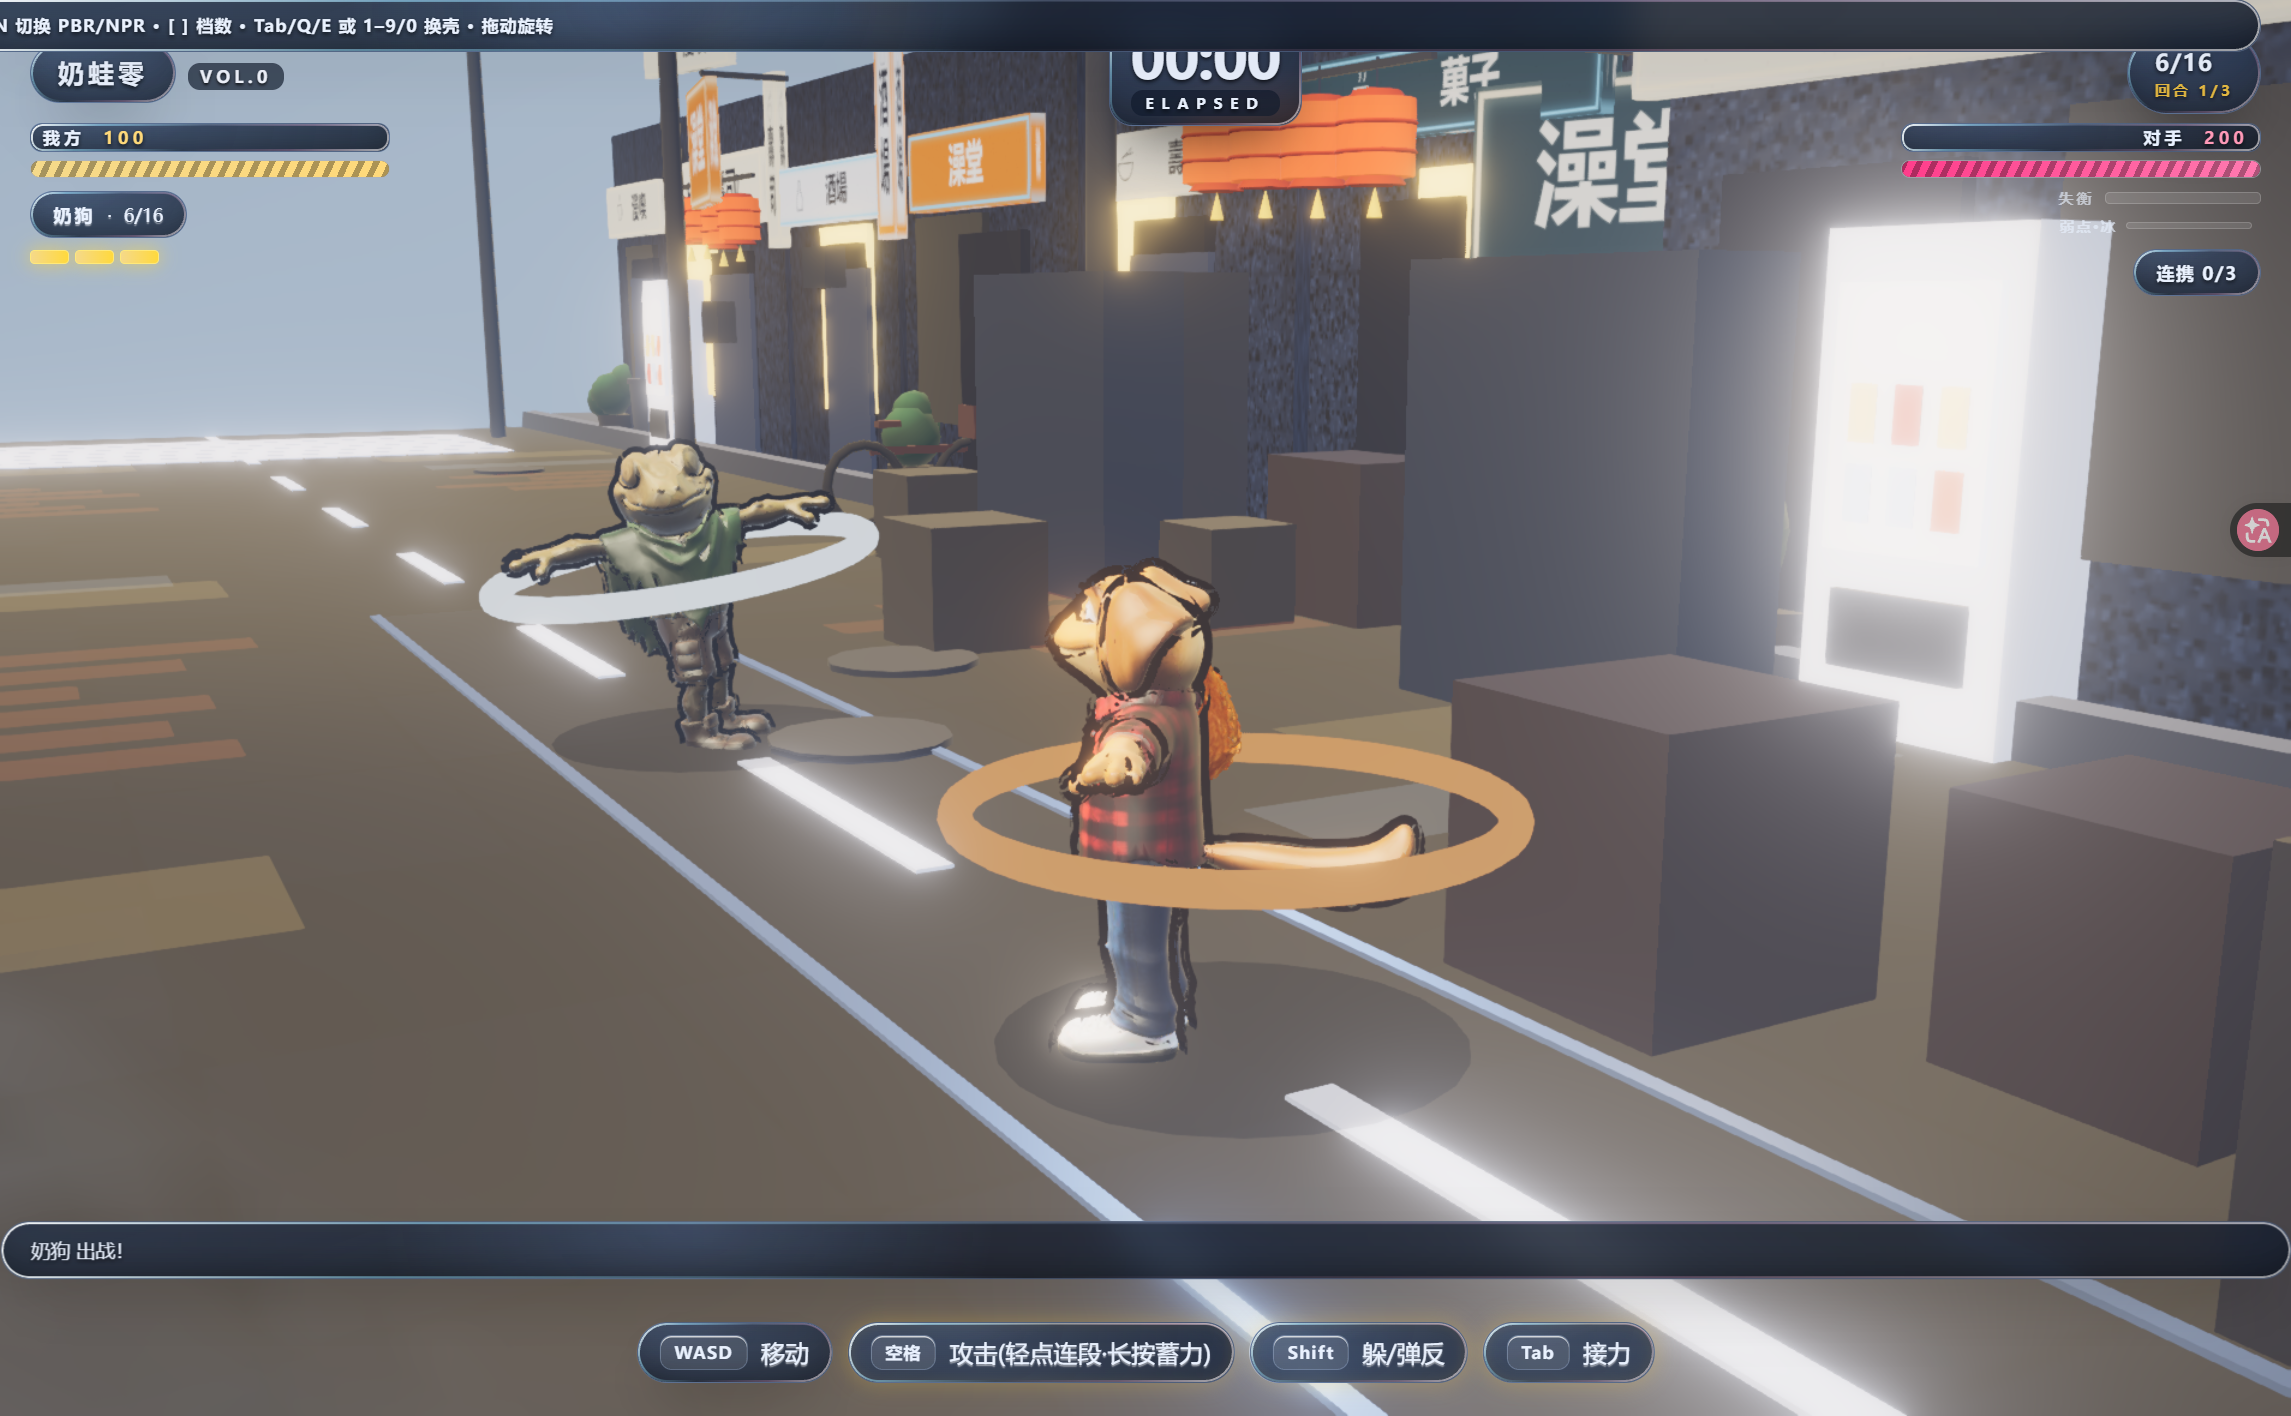
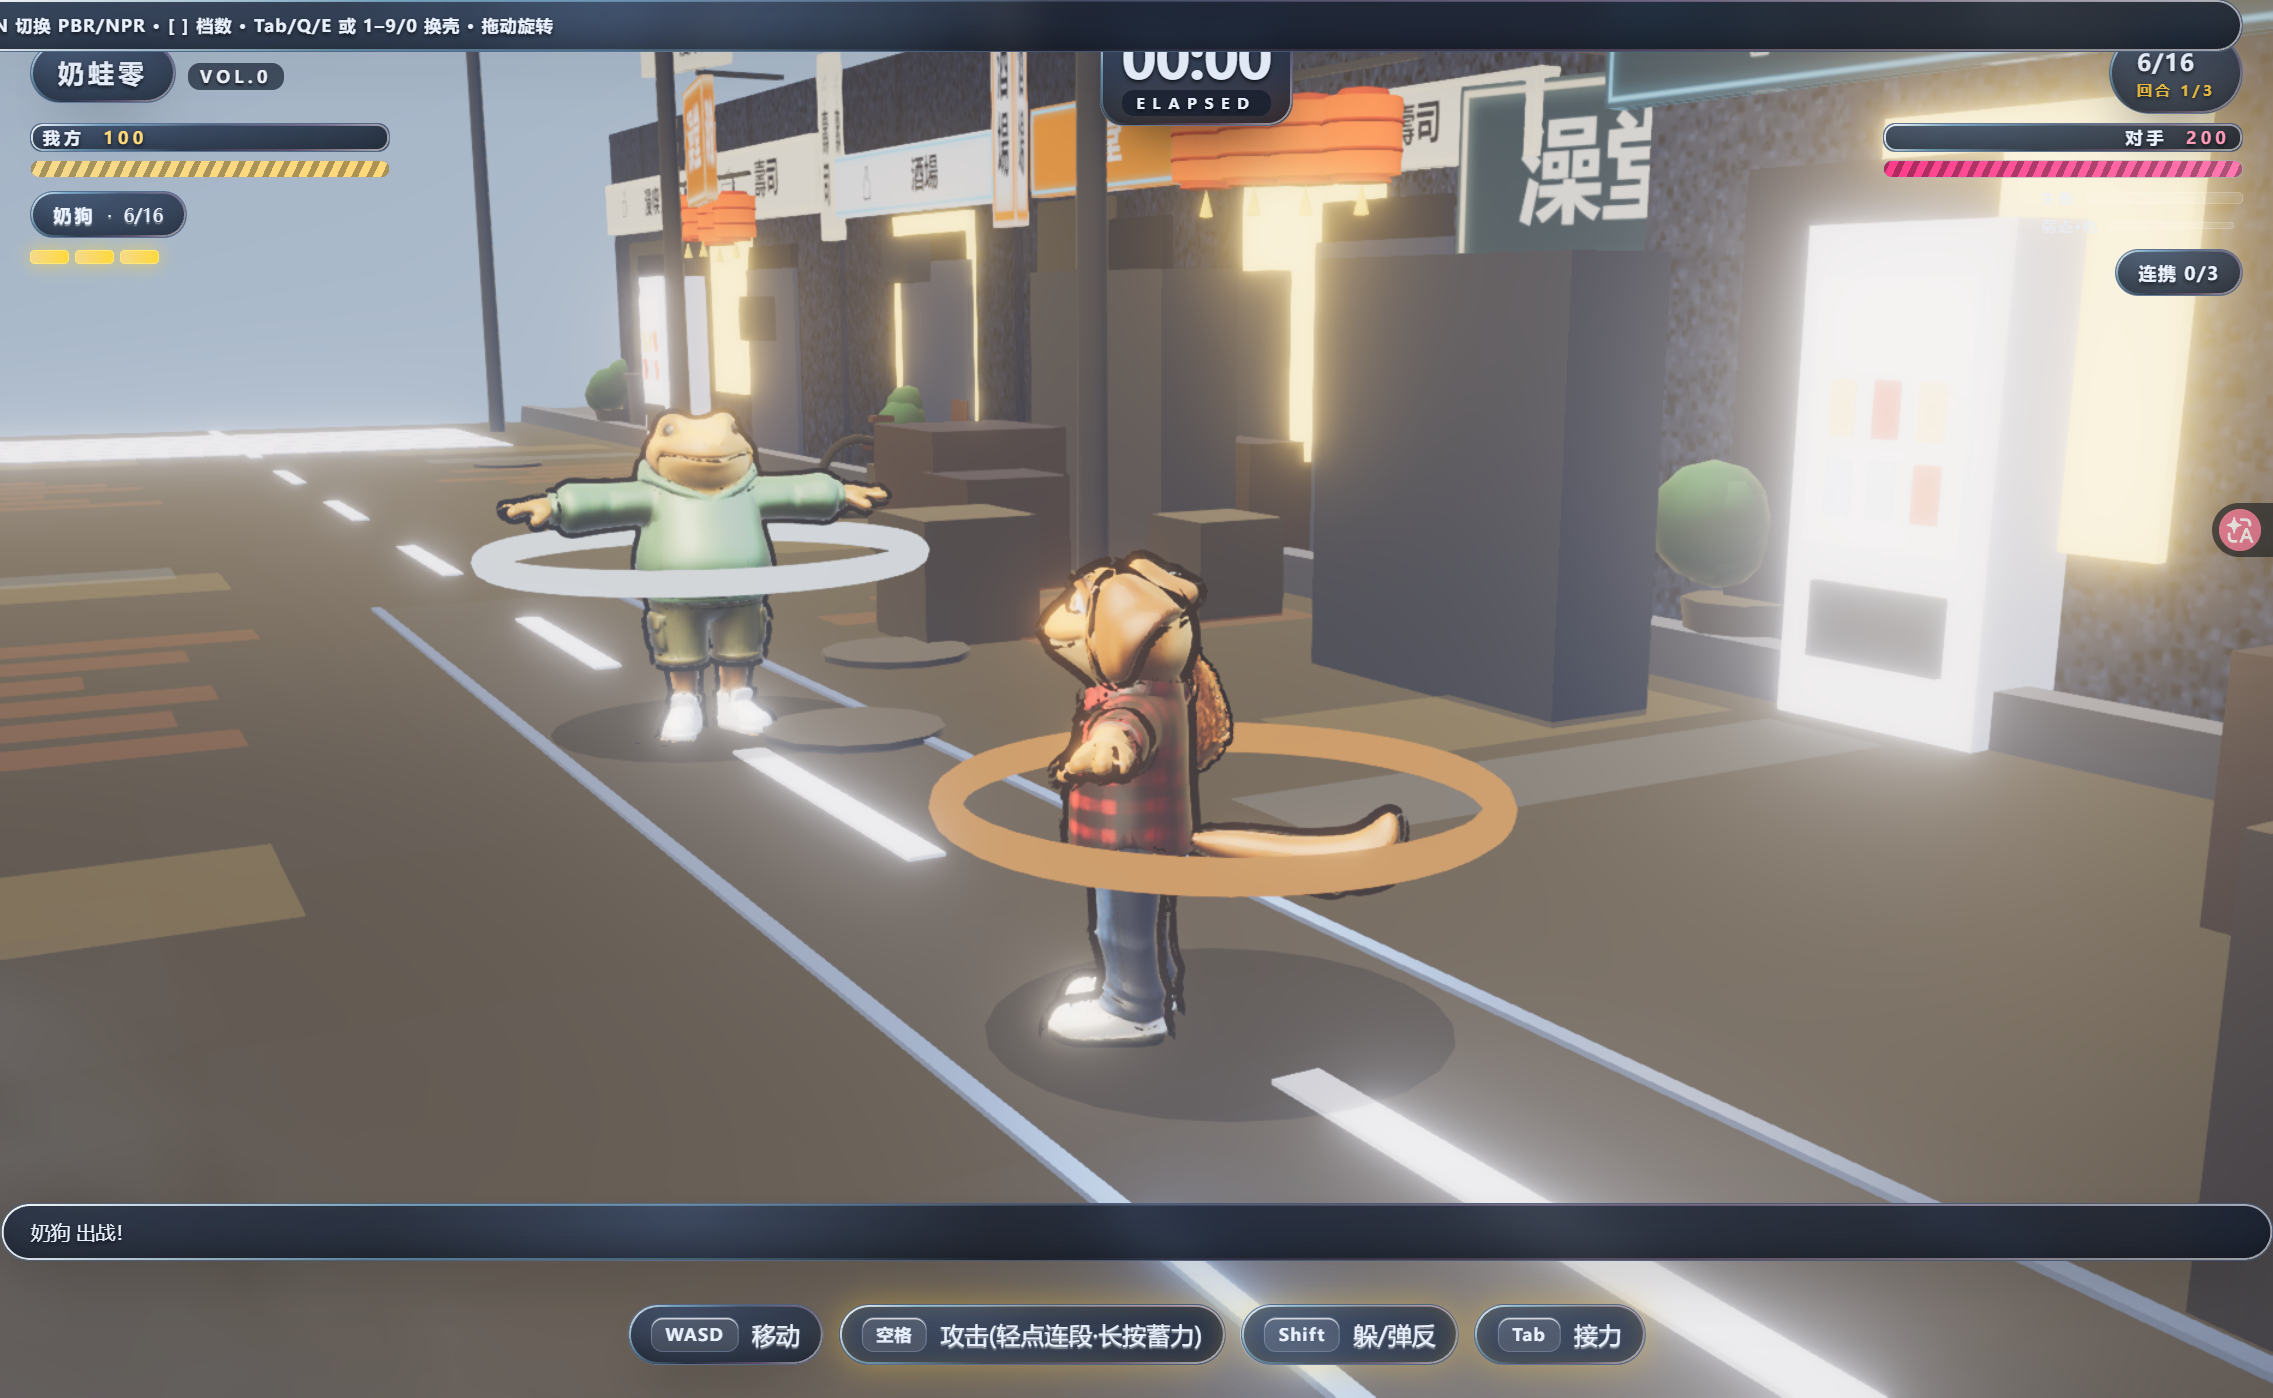
feat(fix): 武器异步加载后补 NPR 材质（与角色赛璐璐统一）+ 并入展示线手感/演出/声音三块补做
- src/main.mjs：武器是异步加载的（晚于角色的 applyNpr），此前保留原始
  MeshPhysicalMaterial —— 与角色的赛璐璐材质不一致，且让 E2E「NPR 材质生效」
  用例读到错误的材质类型。改为武器挂上手骨后单独补一次 applyNpr。
- 并入展示线本轮改动（已由展示线在 docs/改动记录-角色线.md 20:4x/20:5x/21:1x 登记）：
  clips.mjs 交叉融合、combo.mjs 命中取消窗口、weapontrail.mjs 武器拖尾、
  postfx.mjs 命中色散脉冲、cinematic.mjs 环绕/拉近曲线、audio.mjs SampleBank
  + BGM ducking + 挥击风声、scripts/gen-audio-samples.py（自有离线渲染 WAV）。
- E2E 33/33 全绿、lint 0（干净会话复跑；此前多轮红灯为 ego 常驻宿主与并发
  会话导致的抖动，失败用例每次不同）。

diff --git a/AGENTS.md b/AGENTS.md
@@ -72,6 +72,20 @@ AIGC:
 - 已知冲突 / 风险：
 ```
 
+### 交接 2026-11-12 21:3x by 展示线（**动作手感 / 演出层 / 声音三块补做** · 含并发冲突记录）
+
+- 已做（制作人裁决「都做」；三块均已落地并经 lint / 语法 / 运行时单测 / 临时构建验证）：
+  - **手感**：`clips.mjs` 的 `stopAllAction()+60ms` 硬切改 `crossFadeTo` 交叉融合 + 定时清理淡出动作；`combo.mjs` 加命中取消窗口（`hasHit` 且进度 ≥0.72 即可用缓冲提前接续），实测连段 0.26s→0.19s 接续、命中次数仍 1，**不改伤害与命中帧**。
+  - **演出**：新增 `src/vfx/weapontrail.mjs`（武器尖端 14 帧 ribbon 拖尾，逐点「切线×视线」求侧向量）；`postfx.mjs` 加 `uChromatic` 命中径向色散脉冲（0.18s 平方衰减、常态 0）；`cinematic.mjs` 环绕改 easeInOutCubic、拉近改快起慢落且只收水平距离（防机位被压到 y≤0.5）。
+  - **声音**：新增 `scripts/gen-audio-samples.py` + 4 段**自有离线渲染** WAV（141 KB，确定性种子，已补登 `docs/ASSET-LICENSES.md`）；`audio.mjs` 加 SampleBank（缺文件静默回退实时合成）、BGM ducking、挥击风声；`playHit/playClash` 采样优先。**未引入任何第三方音频文件**（网络未取得可核验 CC0 直链，按台账红线「不确定就换成自合成」执行）。
+  - 实机：`18083` 验证版上 4 段 WAV 全 200、零 console 错误、27.4 fps；运行时探针确认拖尾 `visible=true`、色差 0→0.0052→0 衰减。
+  - E2E 工具链两次加固：构建前先 `killPort()`（且**只杀 LISTENING 行**，避免误杀 ESTABLISHED 的 ego 宿主）+ 清理重试 + 完整错误日志。
+- **并发冲突（§3-4 如实记录，未静默重写）**：本轮改动被并行收口线用 `git add -A` 一并提交进 `8108022`（提交信息写「第六版收尾」，实际含这批第七版代码）；此后 `src/main.mjs` 又出现新的未提交改动。文件内容经逐项复核均仍在（crossFadeTo / CANCEL_FROM / WeaponTrail / uChromatic / loadSamples 全在），**未丢失、未回滚**。
+- **测试证据不可直接采信**：改动完成后 E2E 曾通过 **33/33**；随后连续复跑得到 32/33、30/33、31/33，且**失败用例每次不同**（相机高度 / 换人 / 克制 / QTE / 连段 / 返回主界面 / NPR 材质），盘上 `docs/test-report.json` 被多轮并发 E2E 反复覆盖。判为 ego 常驻宿主 rAF 节流与并发会话状态残留导致抖动，需在**干净会话、无并行线**时重跑后再作为交付证据。
+- 自查发现并修正的两个真问题：①拖尾宽度方向原用相机右向量，俯视机位下与水平轨迹平行 → 退化成线；②命中拉近按三维方向推会把 1.6m 机位压到脚边。另有一帧实机截图出现「主画面空白、只剩 HUD + 3D 光标」，原因未确认（疑似 headless 截屏与 WebGL 合成时序），**待真机复核**。
+- 未做 / 待办（制作人拍板后统一收口）：`dist/` **未重建**、线上仍是第六版构建；83.2 秒视频、36 页 `docs/report.pdf`、§十插图、官网第 6 版提交均**指向改动前的代码**。若这批要进最终交付，须走完整一轮：登记 → 干净会话 E2E → 重建并比对 `public/asset` 与 `dist/asset` → 重录 / 重拍 / 重出 PDF → 双通道重部署 → 官网补一次提交。
+- 产物与证据路径：`docs/evidence/v3-feel-combat-20261112.png`、`v3-trail-*`、`v3-baseline-hitframe-20261112.png`、`scripts/gen-audio-samples.py`、`public/audio/*.wav`。
+
 ### 交接 2026-11-12 19:6x by 深度改造线 + 收口线（**资产层返工：骨骼与动作重做** · 统一收口第六版）
 
 - 已做（**本轮是一次「作品本体的返工」，不是打磨**）：

diff --git a/docs/改动记录-角色线.md b/docs/改动记录-角色线.md
@@ -201,3 +201,4 @@
 | 2026-11-12 20:5x | src/main.mjs, src/audio/audio.mjs, scripts/gen-audio-samples.py（新增）, public/audio/*.wav（新增）, docs/ASSET-LICENSES.md | 声音层次收口（制作人「都做」· §3 追加登记）：①新增自有离线渲染采样 4 段（hit_light / hit_heavy / clash_metal / whoosh，共 141 KB，44.1kHz/16bit，确定性种子可复现），**未引入任何第三方音频文件**——网络未取得可核验 CC0 直链，按 ASSET-LICENSES 红线「不确定就换成自合成或 CC0」执行；②audio.mjs 加 SampleBank（fetch+decodeAudioData，缺文件静默回退实时合成）、BGM ducking 动态压混、playWhoosh；playHit/playClash 采样优先；③main.mjs 两行接线（initAudio 里 loadSamples、onAttackInput 里 playWhoosh）。不改战斗数值；已在授权台账补登自有素材来源 | 展示线（声音层次） |
 | 2026-11-12 21:1x | src/vfx/cinematic.mjs, src/vfx/weapontrail.mjs | 演出层实机自查修正：①命中拉近原按三维方向推，基础机位仅 1.6m，「快起慢落」曲线会把相机压到 y≤0.5，触发 E2E「相机位置合理」红灯；改为只收水平距离、不降机位高度（视觉上仍是推近，且避免镜头钻到脚下）；②WeaponTrail 初版宽度方向用相机右向量，俯视机位下与水平轨迹平行 → ribbon 退化成线，改为逐点「切线 × 视线」求侧向量；采样静止阈值 2cm→4.5mm、寿命 0.26→0.32s，慢速挥动也能留下轨迹。均为自查修正，不改玩法数值 | 展示线（演出层自查修正） |
 | 2026-11-12 21:1x | tests/run-e2e.mjs | E2E 工具链二次加固：上一轮 detached preview（PID 占用 5274）仍握着 .tmp-dist-e2e 的文件句柄，构建前的 cleanupTmp 删不掉被锁文件，导致 prepare-out-dir 连续失败。改为**构建前先 killPort()** 释放句柄再清理/构建（原 killPort 只在启动新 preview 前调用，顺序反了）。不改测试用例与判据 | 收口线（测试工具链） |
+| 2026-11-12 21:2x | tests/run-e2e.mjs | killPort 收窄：原实现把 netstat 里所有匹配 :5274 的行末 PID 都杀掉，包含 ESTABLISHED 客户端（ego 宿主），复跑时出现换人/克制/QTE 三个无关用例随机失败。改为只收集 LISTENING 行的 PID | 收口线（测试工具链） |
